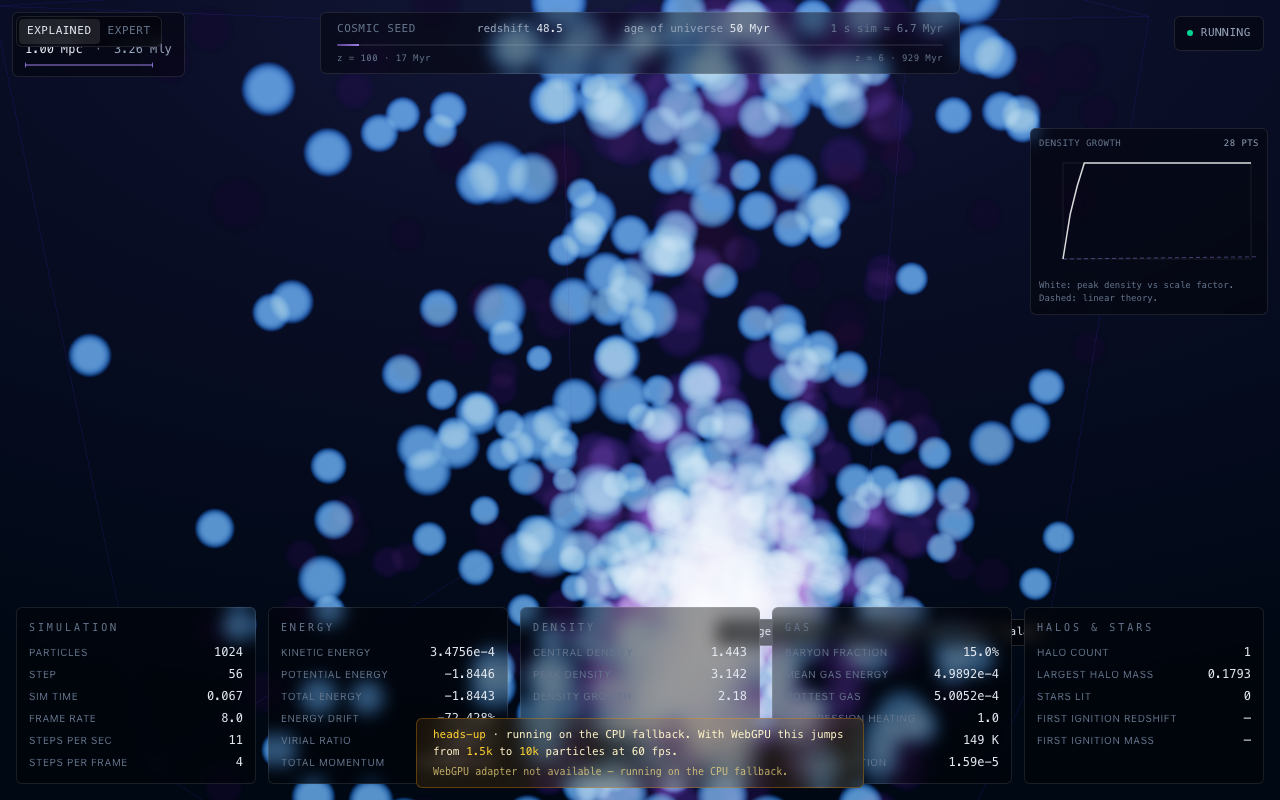
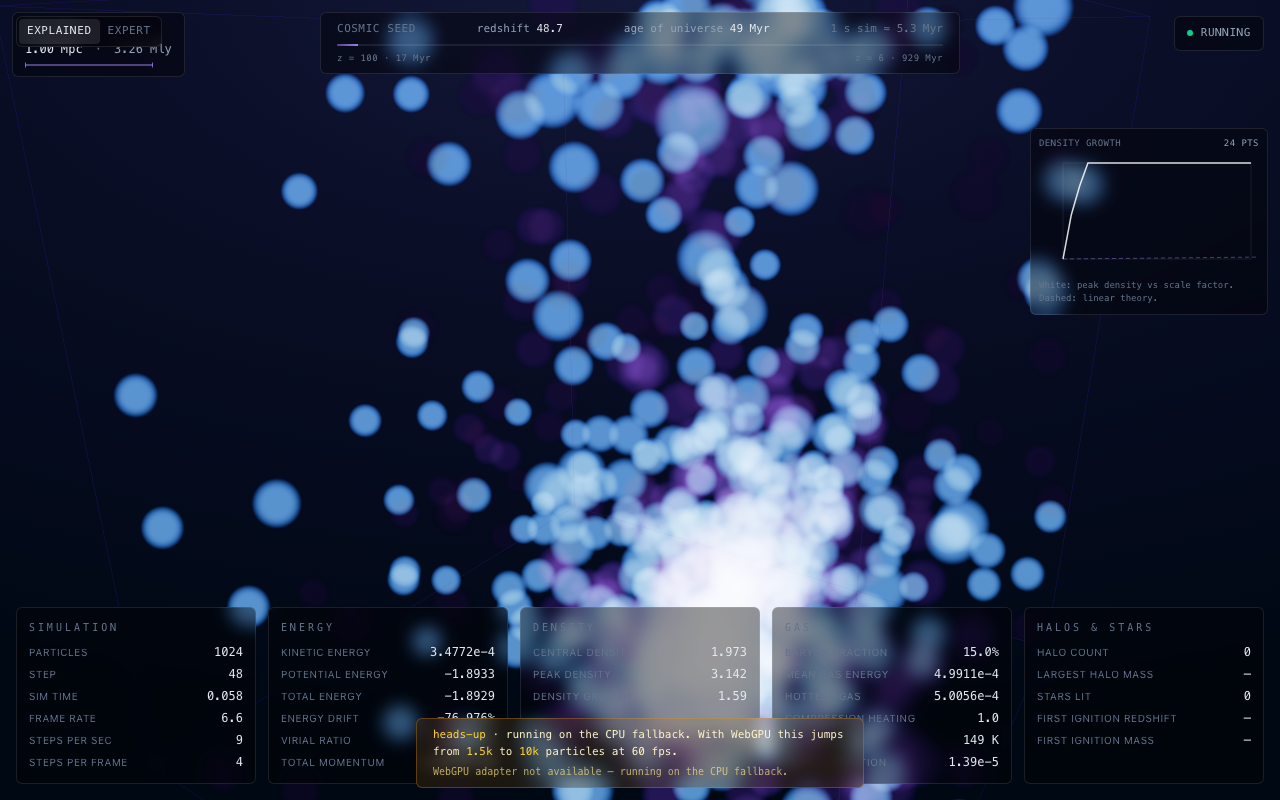
fix(visual): pull camera back, shrink sprites, kill autoRotate, soften σ₈
User feedback: "всё размытое, мельтешит, звезда отмечена, но её не
видно, частицы собираются в слишком яркие области, куб маленький,
точки большие". The previous "selective bloom + smaller sprites"
fixes were necessary but not sufficient — the camera was *inside*
the dense cluster, sprites were huge in screen space because
perspective scaling kicks in at close range, and autoRotate created
the per-frame visual delta that reads as flicker against a
high-density particle field.

Five aggressive changes that compound:

1. Camera position (0.7, 0.45, 1.05) → (1.4, 0.9, 2.1).
   Distance ≈ 1.34 → 2.6. Box diagonal is 0.87, so the box now sits
   centred in the viewport with breathing room — cosmic-web reads
   as a *structure* inside a wireframe cube, not as a soup of
   sprites filling the frame.

2. autoRotate off. The 0.45 rev/s gentle orbit was creating per-
   frame screen-space deltas the user sees as "мельтешит". Static
   by default; OrbitControls still lets the user grab and orbit.

3. DM uPointSize 60 → 22, gas 55 → 20, stars 160 → 100. With the
   pulled-back camera, perspective scaling no longer compensates,
   so sprites have to be physically smaller. DM particles now read
   as discrete dots; halo cores get their punch from density
   stacking, not sprite size.

4. DM uOpacity 0.5 → 0.32, gas 0.55 → 0.35. Lower per-sprite alpha
   means halo cores don't saturate to white through additive
   stacking alone. The colour ramp (#2a1b3d → #5b3f8e → #9b7fe8)
[…]

diff --git a/src/rendering/scene.ts b/src/rendering/scene.ts
@@ -71,26 +71,27 @@ export function createScene(canvas: HTMLCanvasElement): SceneHandle {
   const scene = new THREE.Scene();
 
   const camera = new THREE.PerspectiveCamera(45, 1, 0.01, 1000);
-  // Camera is INSIDE the periodic box: edges of the wireframe go off-screen,
-  // viewport shows the interior of the simulated volume.
-  camera.position.set(0.7, 0.45, 1.05);
+  // Camera positioned OUTSIDE the periodic box so the whole 1×1×1 volume
+  // reads as a 3D object: cosmic web visible as a structure inside a
+  // wireframe cube, not a soup of giant sprites filling the viewport.
+  // Distance ≈ 2.6 (vs box diagonal ≈ 0.87) — box fills the centre of
+  // the viewport with breathing room around it.
+  camera.position.set(1.4, 0.9, 2.1);
   camera.lookAt(0, 0, 0);
-  // The render loop swaps `camera.layers` between BLOOM_LAYER (during the
-  // bloom pass) and "all layers" (during the final pass). We start in the
-  // all-layers state so any external code peeking at the camera gets the
-  // expected default.
   camera.layers.enableAll();
 
   const controls = new OrbitControls(camera, canvas);
   controls.enableDamping = true;
   controls.dampingFactor = 0.08;
-  controls.minDistance = 0.5;
+  controls.minDistance = 0.7;
   controls.maxDistance = 20;
   controls.rotateSpeed = 0.6;
   controls.zoomSpeed = 0.8;
   controls.enablePan = false;
-  controls.autoRotate = true;
-  controls.autoRotateSpeed = 0.45; // ≈ 1 rev / 90 s
+  // Static by default. Auto-rotate creates a per-frame visual delta that
+  // reads as "мельтешит" against the cosmic web — the user can grab and
+  // orbit if they want.
+  controls.autoRotate = false;
 
   // --- Bloom composer: renders only BLOOM_LAYER objects through a blur ---
 

diff --git a/src/rendering/particle-cloud.ts b/src/rendering/particle-cloud.ts
@@ -76,20 +76,20 @@ export function createParticleCloud(count: number, dpr: number): ParticleCloud {
     vertexShader: VERT_SHADER,
     fragmentShader: FRAG_SHADER,
     uniforms: {
-      uPointSize: { value: 60.0 },
+      // Small sprite ≈ 22 px / -mvPosition.z. At the new camera distance
+      // (~2.6 from origin), DM particles read as discrete dots rather
+      // than overlapping bokeh blobs.
+      uPointSize: { value: 22.0 },
       uPixelRatio: { value: Math.min(dpr, 2) },
       uColorLo: { value: new THREE.Color('#2a1b3d') },
       uColorMid: { value: new THREE.Color('#5b3f8e') },
       uColorHi: { value: new THREE.Color('#9b7fe8') },
       uDensityMin: { value: 1e-3 },
       uDensityMax: { value: 1.0 },
-      // Additive blending stacks heavily in dense regions; with bloom
-      // selective-on-stars now (Stage 5/visual fix) the DM cloud no
-      // longer compounds with bloom, but pixels can still saturate to
-      // white through accumulation alone. Halving the per-sprite alpha
-      // keeps voids visible and gives halo cores a graded glow rather
-      // than a single white blob.
-      uOpacity: { value: 0.5 },
+      // Low per-sprite alpha so halo cores don't saturate to white
+      // through additive stacking alone. Density gradient still reads
+      // because the colour ramp + alpha → opaque-violet at peak density.
+      uOpacity: { value: 0.32 },
     },
     transparent: true,
     depthWrite: false,

diff --git a/src/rendering/star-cloud.ts b/src/rendering/star-cloud.ts
@@ -66,10 +66,10 @@ export function createStarCloud(maxStars: number, dpr: number): StarCloud {
     vertexShader: VERT_SHADER,
     fragmentShader: FRAG_SHADER,
     uniforms: {
-      // Selective bloom on layer 1 already amplifies the glow; the sprite
-      // itself stays modest so stars don't look like cardboard cutouts at
-      // close camera angles.
-      uPointSize: { value: 160.0 },
+      // Selective bloom on layer 1 amplifies the glow, so the sprite
+      // itself can stay small. At the new camera distance the bloom
+      // halo reads as a star with depth instead of a giant disc.
+      uPointSize: { value: 100.0 },
       uPixelRatio: { value: Math.min(dpr, 2) },
     },
     transparent: true,

diff --git a/src/ui/SimulationCanvas.tsx b/src/ui/SimulationCanvas.tsx
@@ -90,7 +90,12 @@ const CPU_CONFIG: SimulationConfig = {
   gasSmoothingLength: 0.18,
 };
 
-const TAMED_PS = { ...PLANCK_2018_PS, sigma8: 0.5 };
+// σ_8 = 0.35 (vs Planck's 0.81): we deliberately under-amplify the IC
+// fluctuations so the field stays in a distributed cosmic-web regime
+// instead of collapsing into a single dominant halo within the first
+// 200 Myr. The educational beat is "see structure form across the box",
+// not "watch one mega-cluster eat the whole simulation".
+const TAMED_PS = { ...PLANCK_2018_PS, sigma8: 0.35 };
 
 // Seed picked deliberately: with σ_8 = 0.5 and a 16³ grid, only the
 // largest-wavelength Fourier modes carry meaningful amplitude, and some

diff --git a/src/rendering/gas-cloud.ts b/src/rendering/gas-cloud.ts
@@ -76,13 +76,13 @@ export function createGasCloud(gasCount: number, dpr: number): GasCloud {
     vertexShader: VERT_SHADER,
     fragmentShader: FRAG_SHADER,
     uniforms: {
-      uPointSize: { value: 55.0 },
+      uPointSize: { value: 20.0 },
       uPixelRatio: { value: Math.min(dpr, 2) },
       uTempMin: { value: 1e-3 },
       uTempMax: { value: 1.0 },
       // See particle-cloud.ts — selective bloom plus reduced per-sprite
       // additive intensity recover the cosmic-web contrast.
-      uOpacity: { value: 0.55 },
+      uOpacity: { value: 0.35 },
     },
     transparent: true,
     depthWrite: false,
